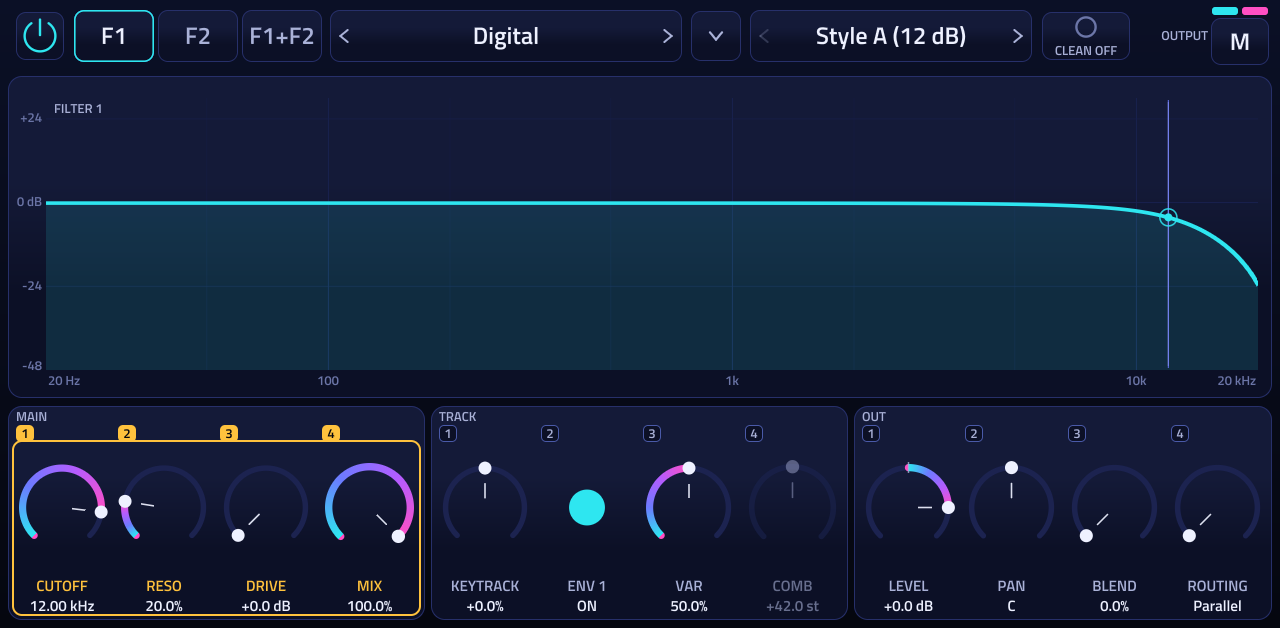
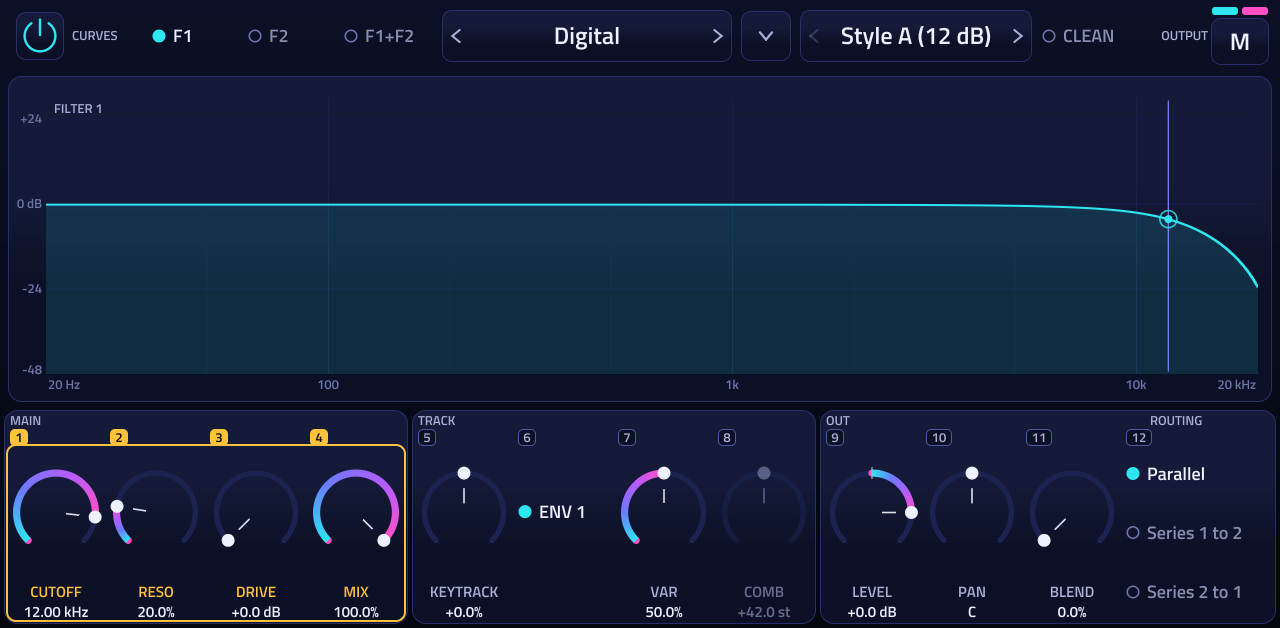
User guide: Mixer and Filter chapters (frameless strips, meter ramp, CURVES list, LED switches)

diff --git a/docs/user-guide/SynthyBoy-MPC-User-Guide.md b/docs/user-guide/SynthyBoy-MPC-User-Guide.md
@@ -451,7 +451,8 @@ Tape Hiss, Vinyl Clicks, Digital Hash, Velvet Noise, Atmosphere), **FILTER** (-1
 
 ![Mixer](img/mixer.png)
 
-Ten channel strips from left to right: **SUB, A, B, C, NOISE, F1, F2, BUS1, BUS2, MASTER**, and above them a routing
+Ten channel strips, side by side, without frames around the sliders: the name and the value sit over a thin track.
+They run from left to right: **SUB, A, B, C, NOISE, F1, F2, BUS1, BUS2, MASTER**, and above them a routing
 bar (FLT 1, FLT 2, MAIN FX, DIRECT, MASTER) that draws the path of the **selected strip** (a tap on a strip selects it).
 
 Each strip (top to bottom):
@@ -463,21 +464,24 @@ Each strip (top to bottom):
   - BUS1, BUS2: Main, Direct, Other bus.
   - MASTER: OUT (fixed).
 - **LEVEL fader** with a peak meter beside it: SUB, A, B, C, NOISE 0 .. 100 percent; F1, F2 -60 .. +12 dB (default 0); BUS1, BUS2 -60 .. +6 dB
-  (default 0); MASTER = Master Volume -60 .. +6 dB (default -12). Vertical drag; double tap = default. A hold line falls slowly from the highest level.
-- **PAN** (-100 .. +100 percent), **B1** and **B2** (sends to bus 1 and bus 2, 0 .. 100 percent): on SUB, A, B, C, NOISE, F1, F2 only. The buses and MASTER have a level only.
+  (default 0); MASTER = Master Volume -60 .. +6 dB (default -12). Vertical drag; double tap = default. A hold line falls slowly from the highest level. The meter has a dB scale (a mark every 12 dB, or at 0 / -6 / -12 / -24 / -48) and a colour ramp: blue-green when quiet, violet near full scale. At rest it shows a faint base line, never an empty box.
+- **PAN** (-100 .. +100 percent), **B1** and **B2** (sends to bus 1 and bus 2, 0 .. 100 percent): thin sliders without a box, on SUB, A, B, C, NOISE, F1, F2 only. The buses and MASTER have a level only; their PAN and sends are left out, not dimmed.
 
-Q group: the strip you touched: LEVEL (1), PAN (2), B1 (3), B2 (4). On the XL the next strips (wrapping) follow on knobs 5 - 16.
+Q group: the strip you touched (yellow frame around the whole strip; in the picture it is SUB): LEVEL (1), PAN (2), B1 (3), B2 (4). On the XL the next three strips (wrapping) follow on knobs 5 - 16: in the picture A has 5 - 8, B has 9 - 12, C has 13 - 16. On the Key 61 the Q-Link button steps to them (chapter 4.3).
 
 ### 5.7 Filter 1 / 2
 
 ![Filter](img/filter.png)
 
-The page of the Filter tab shows **one filter at a time**: the tab Filter 1 starts on F1, Filter 2 on F2; the cells **F1, F2, F1+F2**
-in the header switch between them (F1+F2 draws both response curves and the combined one).
+The picture shows Filter 1 with the Digital model, the response curve with the cutoff handle, and the three blocks. The OUTPUT button at the top right shows M (Effects only).
+
+The page of the Filter tab shows **one filter at a time**: the tab Filter 1 starts on F1, Filter 2 on F2. The **CURVES** list at the top
+left (F1, F2, F1+F2; the lit dot is the choice) says which curves the display draws and which filter the knobs edit; F1+F2 draws both response curves and the combined one.
+It is not the routing list (Parallel / Series) and not the Filter 1 / Filter 2 tabs of the MPC, which only choose where the page opens.
 
 **Header:** power (Filter N On), model stepper (27 models: Analog, Dirty, Ladder, Digital, Diode, Formant, Comb, Phaser, Multi SVF, Slope, EQ 6 dB,
 Ring Mod, Sample Hold, Smear, French LP, Add Bass, Scream, New Wsp, DJ Mixer, Diffusor, EMS Ladder, PZ SVF, Normal, Multi Morph, Flanges, Misc, New)
-with a list button, style stepper (12 styles, "Style A (12 dB)", "Style B (24 dB)" ... "Style L"), **CLEAN** switch (dim for Comb and Formant),
+with a list button, style stepper (12 styles, "Style A (12 dB)", "Style B (24 dB)" ... "Style L"), **CLEAN** LED switch (dim for Comb and Formant),
 **OUTPUT** route button (M = Effects only by default; Filter N Destination: Effects only, Direct out, None; the popup also has BUS 1, BUS 2, level, pan).
 
 **Display.** The response curve the filter really has (log frequency 20 Hz .. 20 kHz, dB scale from +24 down to -48), drawn with the live cutoff and resonance of the voice that sounded last
@@ -492,18 +496,18 @@ with a list button, style stepper (12 styles, "Style A (12 dB)", "Style B (24 dB
 | | DRIVE | 0 .. 20 dB |
 | | MIX | 0 .. 100 percent, default 100 |
 | TRACK | KEYTRACK | -100 .. +100 percent |
-| | ENV 1 | switch: Env 1 shapes the filter (default On) |
+| | ENV 1 | LED switch: Env 1 shapes the filter (default On) |
 | | VAR | 0 .. 100 percent, default 50 (dim with Formant) |
 | | COMB | Comb Blend Offset 0 .. 84 semitones, default 42 (dim unless the model is Comb) |
 | OUT | LEVEL | -60 .. +12 dB |
 | | PAN | -100 .. +100 percent |
 | | BLEND | 0 .. 100 percent |
-| | ROUTING | Filter Routing: Parallel, Series 1 to 2, Series 2 to 1 (one setting for both filters) |
+| | ROUTING | a LED list of three: Parallel, Series 1 to 2, Series 2 to 1 (one setting for both filters) |
 
 With the model **Formant** a fourth group FORMANT appears with X, Y (0 .. 100 percent), TRANSPOSE (-12 .. +12 semitones) and SPREAD (-100 .. +100 percent), and the display shows the formant pad.
 TODO(owner): Describe the Formant page from a picture (the rendered gallery shows only the default model), including which control sets Formant Resonance (30 .. 100 percent).
 
-Controls that do not apply to the current model are dimmed, including their value text. A long press on a knob opens its modulation page (chapter 6).
+Controls that do not apply to the current model are dimmed, including their value text (in the picture COMB is dim because the model is not Comb). A long press on a knob opens its modulation page (chapter 6).
 
 ### 5.8 Envelopes
 
